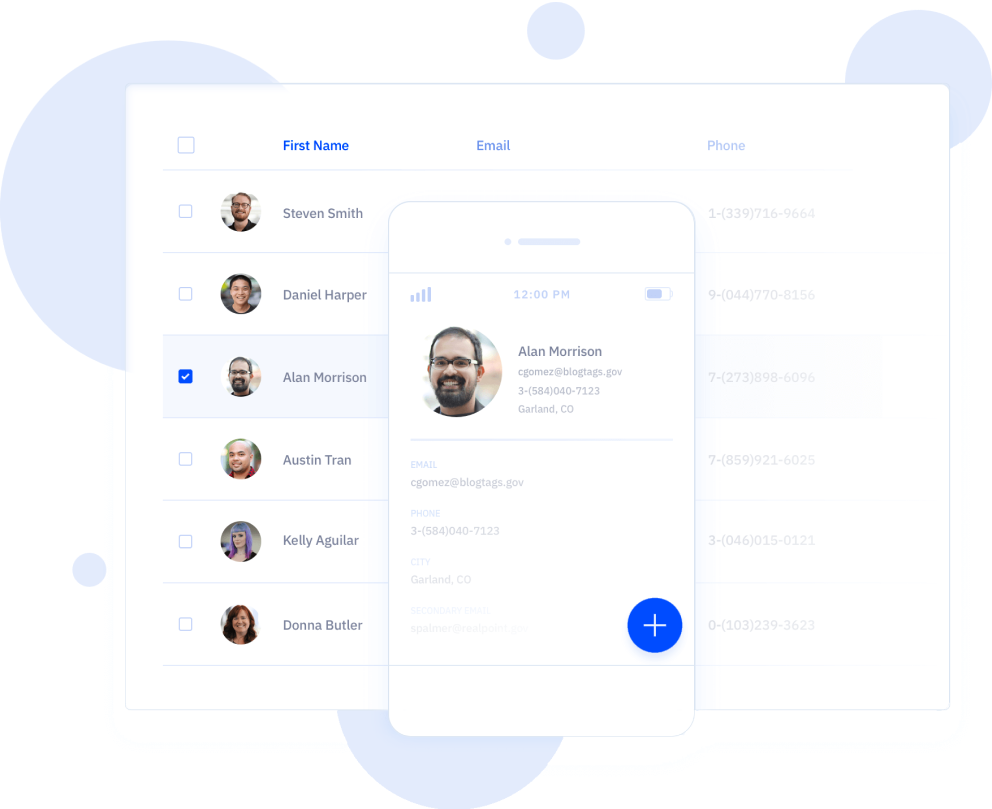
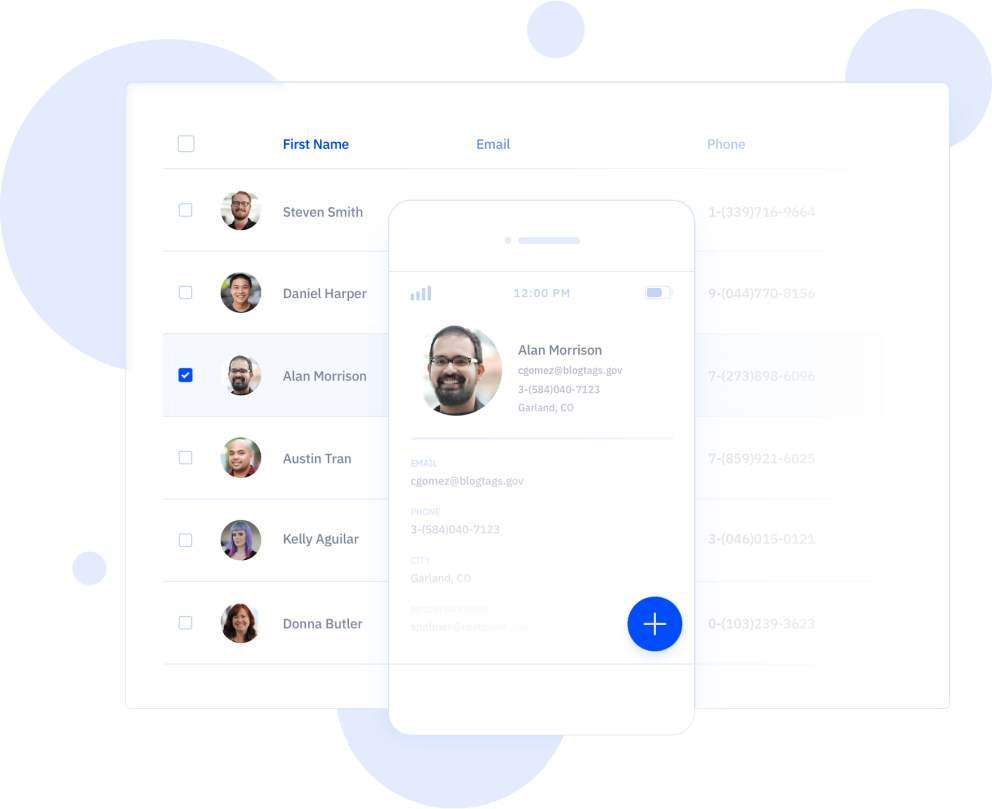
Pushed from Locofy Builder

diff --git a/src/pages/Edit1.module.css b/src/pages/Edit1.module.css
@@ -190,30 +190,35 @@
   gap: 23px;
 }
 .content {
-  position: absolute;
-  margin: 0 !important;
-  top: 175.99px;
-  left: calc(50% - 530px);
+  position: relative;
   width: 1060px;
   height: 524.47px;
   z-index: 1;
 }
-.body,
-.bodyChild {
-  align-self: stretch;
-  position: relative;
+.object,
+.objectChild {
+  position: absolute;
+  bottom: 0;
+  left: calc(50% - 1498px);
+  width: 3020px;
+  height: 702px;
 }
-.bodyChild {
-  max-height: 100%;
-  width: 2432px;
+.object {
+  margin: 0 !important;
+  bottom: 0.35px;
+  left: calc(50% - 1510px);
   z-index: 0;
 }
 .body {
-  height: 767px;
+  align-self: stretch;
+  height: 703px;
   display: flex;
   flex-direction: row;
-  align-items: flex-end;
+  padding: var(--padding-81xl) 0 0;
+  box-sizing: border-box;
+  align-items: flex-start;
   justify-content: center;
+  position: relative;
   margin-top: -5px;
 }
 .teamUpWithContainer,
@@ -366,26 +371,24 @@
   width: 1080px;
   height: 93px;
 }
-.body2 {
+.body2,
+.footer {
   align-self: stretch;
+  position: relative;
+  margin-top: -5px;
+}
+.body2 {
   background-color: var(--color-darkslategray-200);
   height: 216px;
-  margin-top: -5px;
   font-size: var(--font-size-21xl);
   color: var(--color-white);
   font-family: var(--font-poppins);
 }
-.body2,
-.edit1,
 .footer {
-  position: relative;
-}
-.footer {
-  align-self: stretch;
   height: 1119.95px;
-  margin-top: -5px;
 }
-.edit1 {
+.contentifyDraft20230521 {
+  position: relative;
   background-color: #f1f3f3;
   box-shadow: 0 0 0 4px rgba(255, 255, 255, 0.01);
   width: 100%;

diff --git a/src/components/SuccessContainer.module.css b/src/components/SuccessContainer.module.css
@@ -1,3 +1,12 @@
+.bodyChild {
+  position: absolute;
+  margin: 0 !important;
+  bottom: 0;
+  left: calc(50% - 1507px);
+  width: 3009px;
+  height: 818.05px;
+  z-index: 0;
+}
 .div,
 .svgIcon {
   position: absolute;
@@ -241,30 +250,23 @@
   width: 675.02px;
   height: 104px;
 }
-.divelementorFlipBoxLayerParent {
-  position: absolute;
-  margin: 0 !important;
-  top: calc(50% - 352.05px);
-  left: calc(50% - 530px);
+.body,
+.content3 {
+  position: relative;
+}
+.content3 {
   width: 1060px;
   height: 672px;
   z-index: 1;
 }
-.body,
-.bodyChild {
-  align-self: stretch;
-  position: relative;
-}
-.bodyChild {
-  max-height: 100%;
-  width: 2402px;
-  z-index: 0;
-}
 .body {
+  align-self: stretch;
   background-color: var(--color-darkslategray-200);
   height: 818px;
   display: flex;
   flex-direction: row;
+  padding: var(--padding-64xl) 0 0;
+  box-sizing: border-box;
   align-items: flex-start;
   justify-content: center;
   margin-top: -5px;

diff --git a/src/pages/Edit1.tsx b/src/pages/Edit1.tsx
@@ -17,7 +17,7 @@ import CustomerSupportContainer from "../components/CustomerSupportContainer";
 import styles from "./Edit1.module.css";
 const Edit1: FunctionComponent = () => {
   return (
-    <div className={styles.edit1}>
+    <div className={styles.contentifyDraft20230521}>
       <Header />
       <ContentSection />
       <ContentGeneratorContainer />
@@ -83,7 +83,9 @@ const Edit1: FunctionComponent = () => {
             </div>
           </div>
         </div>
-        <img className={styles.bodyChild} alt="" src="/vector-13.svg" />
+        <div className={styles.object}>
+          <img className={styles.objectChild} alt="" src="/vector-13.svg" />
+        </div>
       </div>
       <AutomationContainer />
       <SalesAutomationContainer />

diff --git a/src/components/SuccessContainer.tsx b/src/components/SuccessContainer.tsx
@@ -3,7 +3,8 @@ import styles from "./SuccessContainer.module.css";
 const SuccessContainer: FunctionComponent = () => {
   return (
     <div className={styles.body}>
-      <div className={styles.divelementorFlipBoxLayerParent}>
+      <img className={styles.bodyChild} alt="" src="/frame-735.svg" />
+      <div className={styles.content3}>
         <div className={styles.divelementorFlipBoxLayer}>
           <div className={styles.div}></div>
           <div className={styles.divelementorFlipBoxLayer1}>
@@ -104,7 +105,6 @@ const SuccessContainer: FunctionComponent = () => {
           </span>
         </div>
       </div>
-      <img className={styles.bodyChild} alt="" src="/vector-14.svg" />
     </div>
   );
 };

diff --git a/src/global.css b/src/global.css
@@ -88,6 +88,7 @@ body {
   --padding-mini-5: 14.5px;
   --padding-10xs: 3px;
   --padding-base: 16px;
+  --padding-64xl: 83px;
   --padding-44xl: 63px;
   --padding-2xl: 21px;
   --padding-70xl: 89px;
@@ -100,10 +101,10 @@ body {
   --padding-7xl: 26px;
   --padding-6xl-1: 25.1px;
   --padding-7xl-1: 26.1px;
+  --padding-81xl: 100px;
   --padding-xs: 12px;
   --padding-base-2: 15.2px;
   --padding-31xl: 50px;
-  --padding-81xl: 100px;
   --padding-9xl: 28px;
   --padding-94xl: 113px;
   --padding-178xl: 197px;

diff --git a/src/components/ContentGeneratorContainer.module.css b/src/components/ContentGeneratorContainer.module.css
@@ -350,7 +350,7 @@
 }
 .the1ContentGenerationPlatParent {
   position: absolute;
-  top: calc(50% - 276.84px);
+  top: calc(50% - 276.51px);
   left: calc(50% - 540px);
   width: 1464px;
   height: 504.58px;

diff --git a/src/components/MessageContainer.module.css b/src/components/MessageContainer.module.css
@@ -178,7 +178,7 @@
 }
 .websitemessagingpngParent {
   position: absolute;
-  top: calc(50% - 245.34px);
+  top: calc(50% - 245.01px);
   left: calc(50% - 530px);
   width: 1058.45px;
   height: 516.19px;

diff --git a/src/components/SalesAutomationContainer.module.css b/src/components/SalesAutomationContainer.module.css
@@ -177,7 +177,7 @@
 }
 .crmParent {
   position: absolute;
-  top: calc(50% - 230.53px);
+  top: calc(50% - 230.2px);
   left: calc(50% - 530px);
   width: 1060px;
   height: 508.19px;
